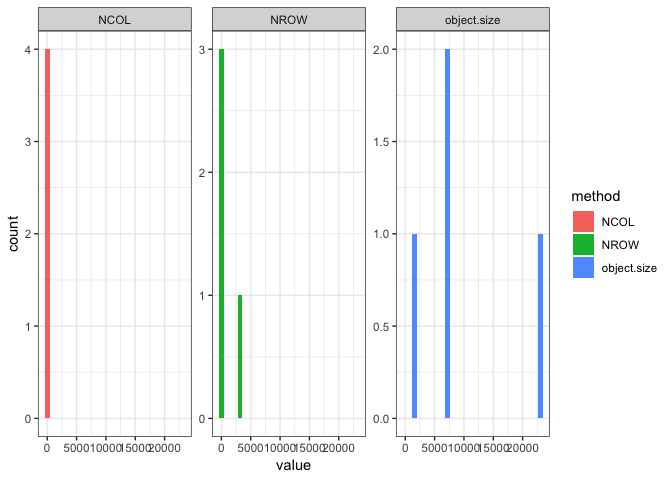
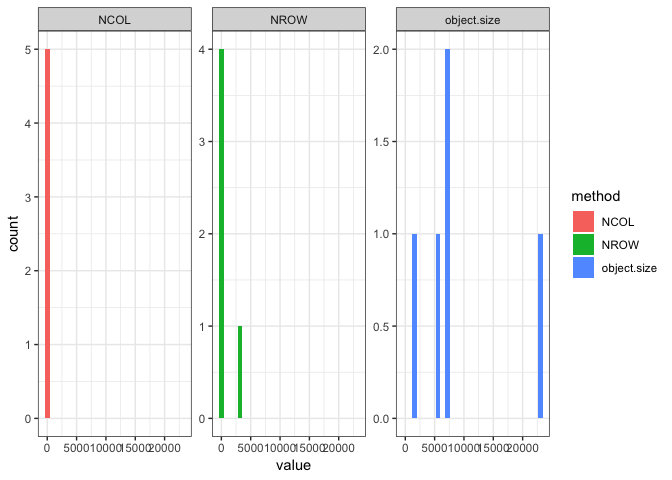
update example

diff --git a/report.md b/report.md
@@ -32,15 +32,18 @@ print(full_results)
     ## 1   7208 object.size   mtcars
     ## 2   7256 object.size     iris
     ## 3   1264 object.size     Nile
-    ## 4  23024 object.size sunspots
-    ## 5     11        NCOL   mtcars
-    ## 6      5        NCOL     iris
-    ## 7      1        NCOL     Nile
-    ## 8      1        NCOL sunspots
-    ## 9     32        NROW   mtcars
-    ## 10   150        NROW     iris
-    ## 11   100        NROW     Nile
-    ## 12  2820        NROW sunspots
+    ## 4   5232 object.size   Orange
+    ## 5  23024 object.size sunspots
+    ## 6     11        NCOL   mtcars
+    ## 7      5        NCOL     iris
+    ## 8      1        NCOL     Nile
+    ## 9      3        NCOL   Orange
+    ## 10     1        NCOL sunspots
+    ## 11    32        NROW   mtcars
+    ## 12   150        NROW     iris
+    ## 13   100        NROW     Nile
+    ## 14    35        NROW   Orange
+    ## 15  2820        NROW sunspots
 
 ## Plot
 
